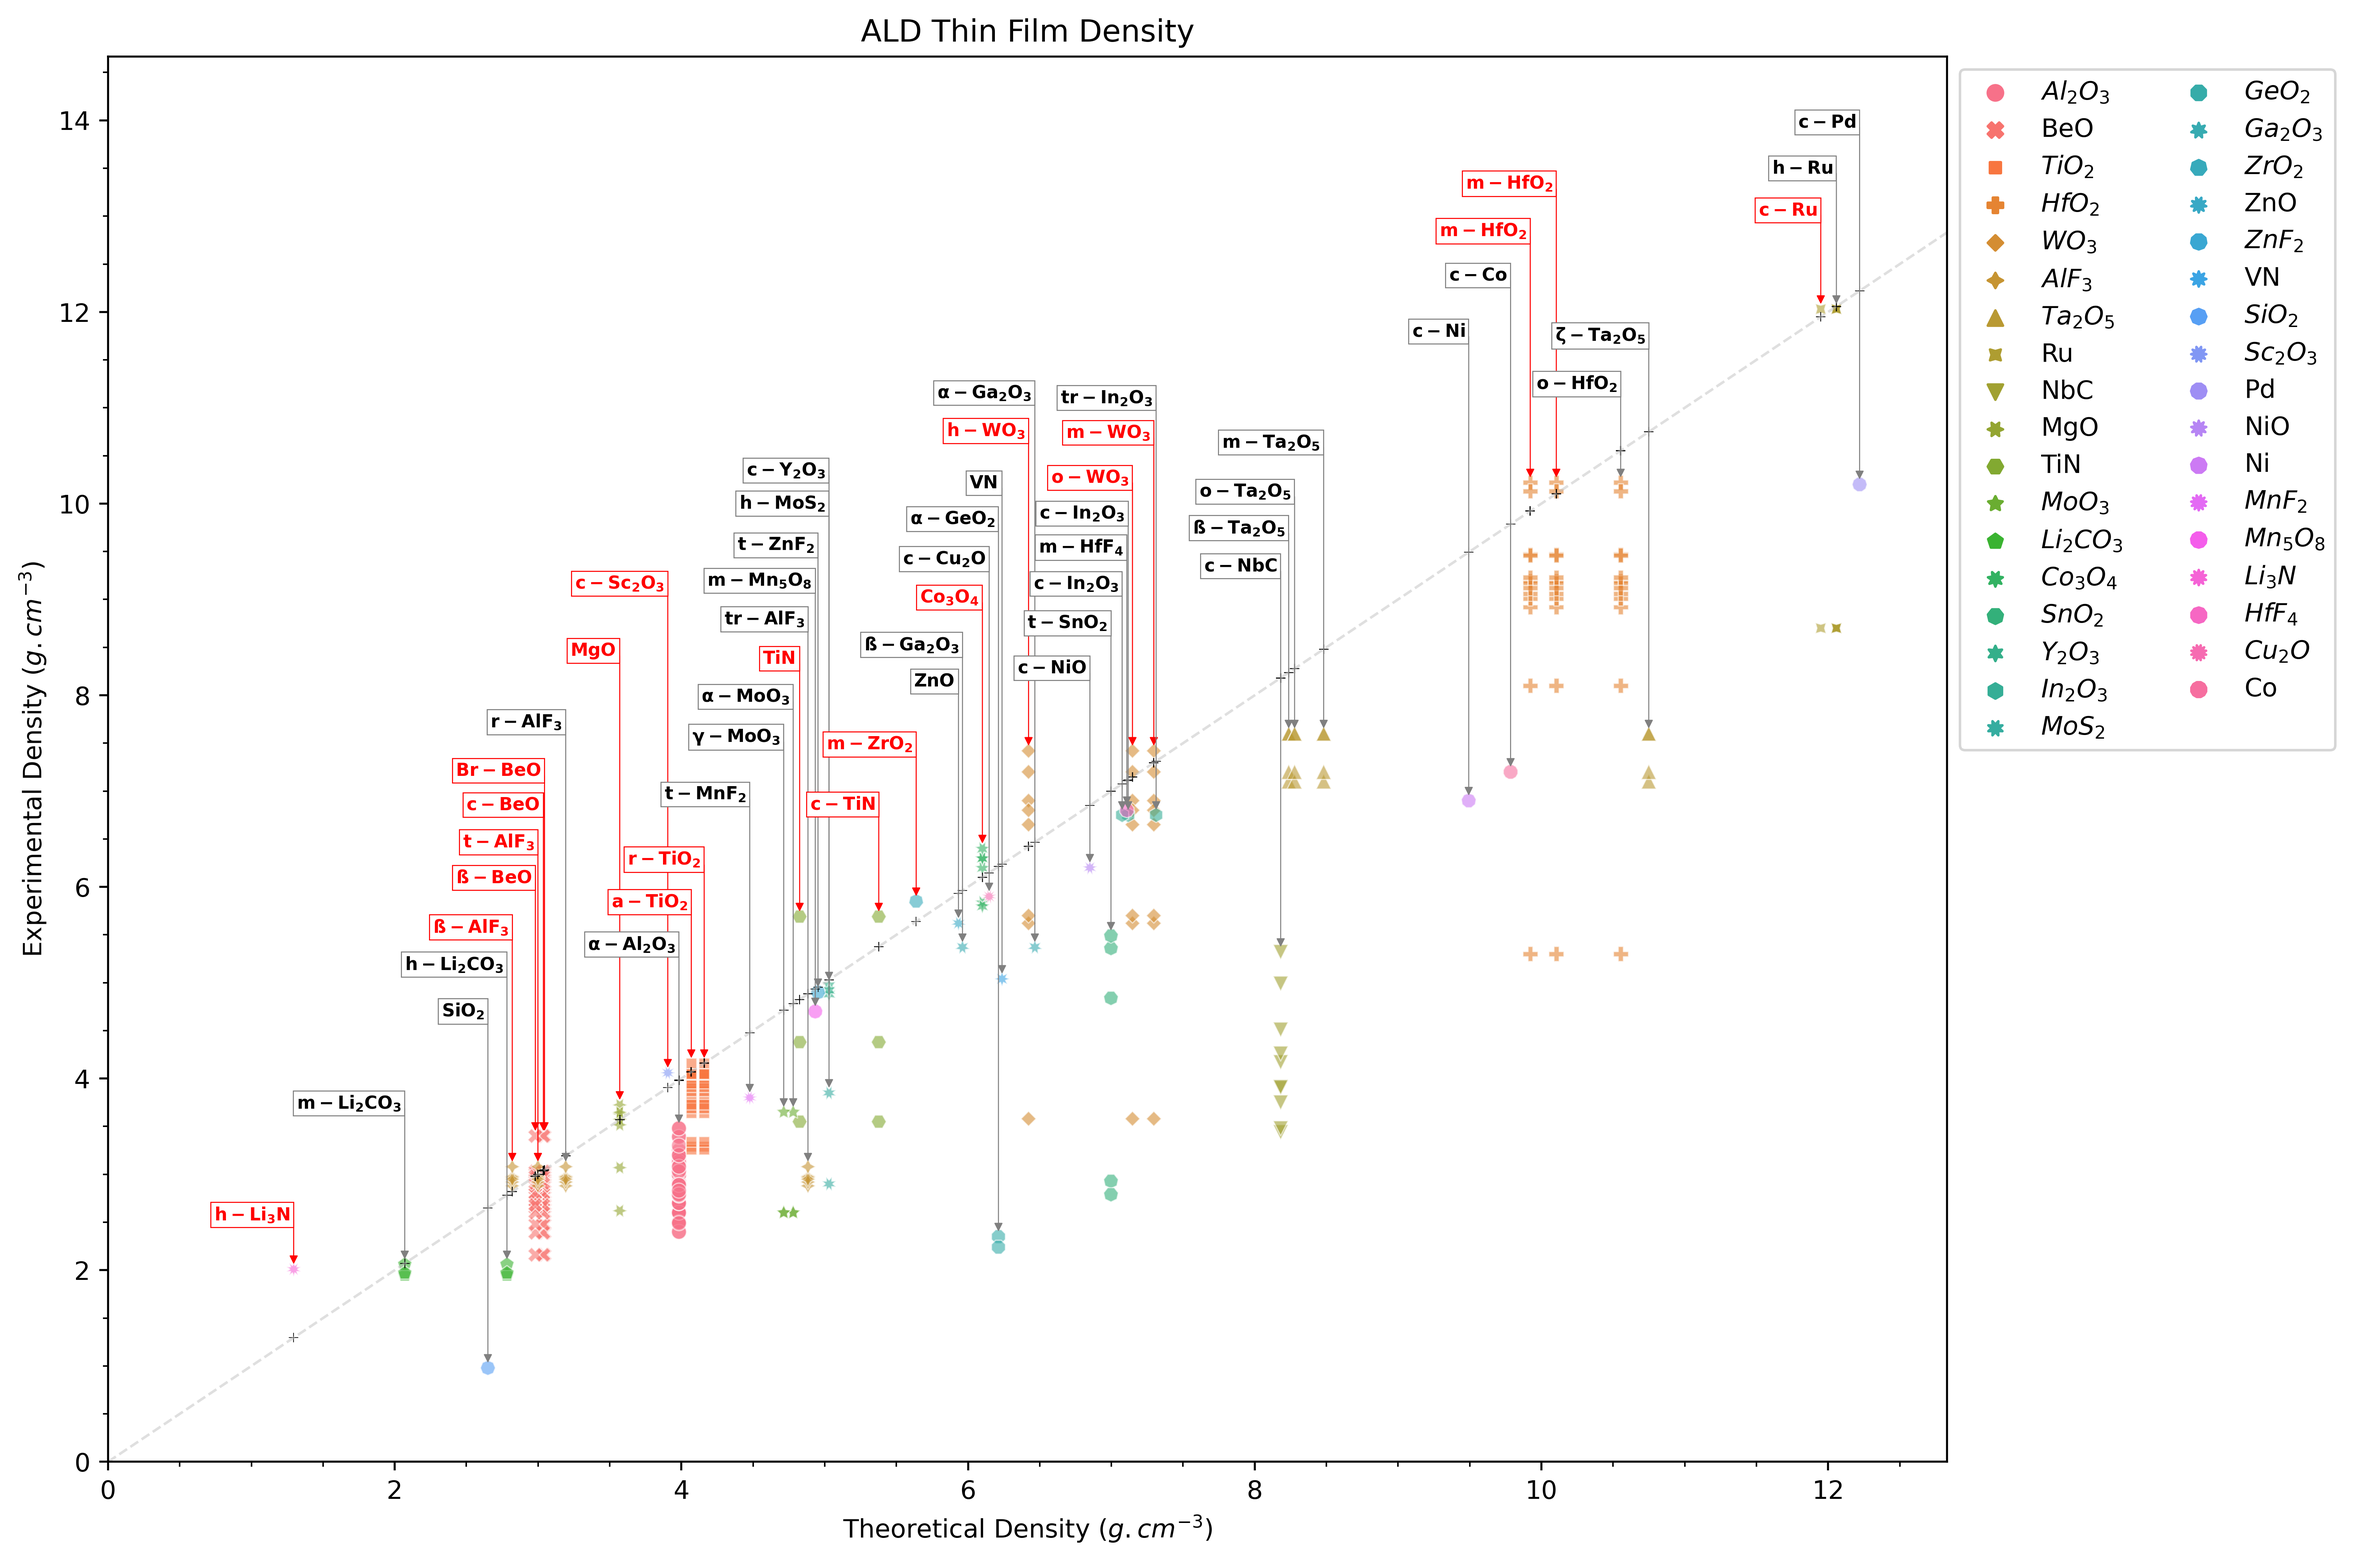
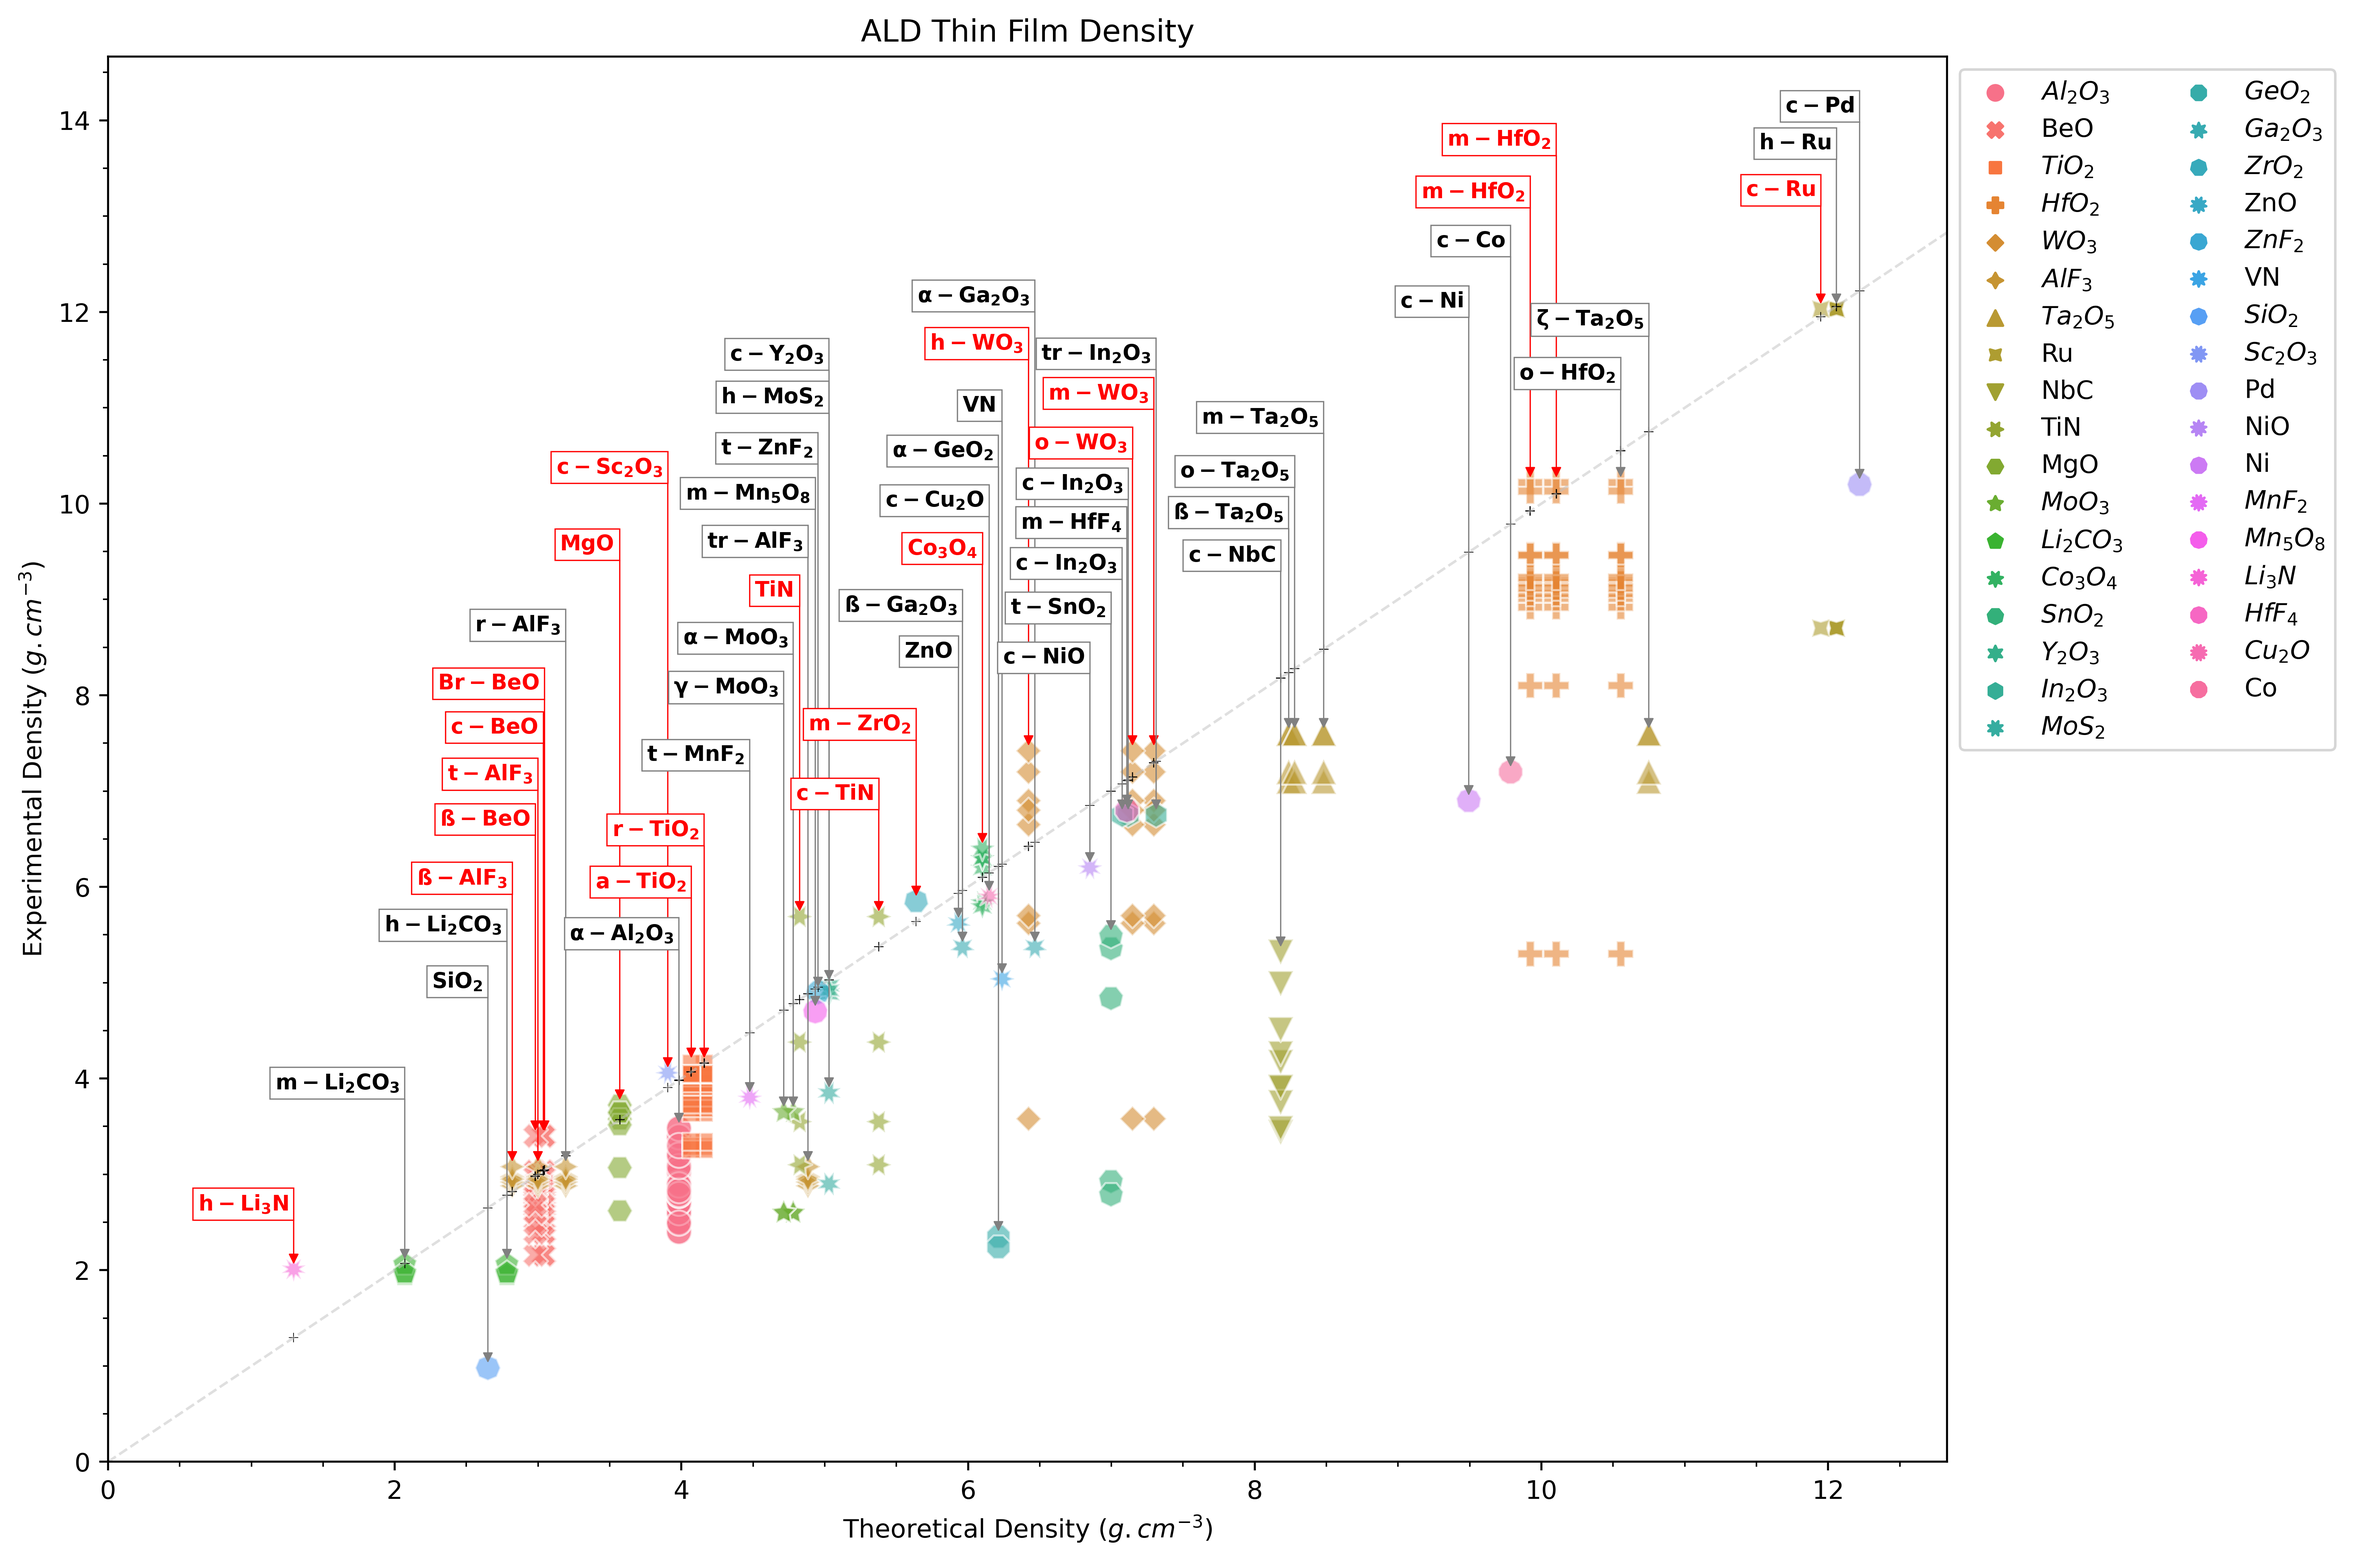
ald ET updated label spacing and point size

diff --git a/scripts/ald-density-ET.py b/scripts/ald-density-ET.py
@@ -335,19 +335,23 @@ def place_labels_all(pnt_lbl, x_thr, y_thr, y_exp, seq_labels_all, flags, visual
 
 
     halign = "right"
-    valign = "baseline"
+    valign = "bottom"
 
     x_txt = x_thr
     # y_txt = f1(x_txt) + y_scatter
+    vertical_spacing_base = 0.40
+    vertical_spacing_r = vertical_spacing_base
+    vertical_spacing_l = vertical_spacing_base + 0.05
 
-    if x_thr > pivot:
+
+    if x_thr > pivot: # right
         scatter_shift=5
-        y_scatter = ((seq_labels_all+scatter_shift)%8*0.35)
+        y_scatter = ((seq_labels_all+scatter_shift)%8 * vertical_spacing_r)
         y_txt = f1(x_txt) + y_scatter
 
-    else:
+    else: # left
         scatter_shift=11
-        y_scatter = ((seq_labels_all+scatter_shift)%12*0.35)
+        y_scatter = ((seq_labels_all+scatter_shift)%12 * (vertical_spacing_l))
         y_txt = f2(x_txt) + y_scatter
 
 
@@ -587,32 +591,31 @@ def keep_labels_inside_margins(label_coords, ax, axis_margins={}):
 
     return [x_txt, y_txt]
 
-def plot_data1(df, x, y, z, point_labels,  **kwargs):
+def plot_data1(df, x, y, z, point_labels,  info={}, info_scatter={}):
     ald_print_info(df, label="DF PLOTTING")
 
     fig, ax = plt.subplots(figsize=(13,10)) # figsize=(6, 7)
 
     order_z = list(df[z].unique())
 
-    # formated_labels = df[z].apply(create_latex_labels)
-    # print(formated_labels)
-    # print(df[z].value_counts())
 
     ax.axline((0,0), slope=1, color='silver', lw=1, ls='--', alpha=0.5, label='_none_')
-    g1 = sns.scatterplot(ax=ax, data=df, x=x, y=y, hue=z, alpha=0.6, s=35, style=z, hue_order=order_z, style_order=order_z)
-    g2 = sns.scatterplot(ax=ax, data=df, x=x, y=x, color="black", alpha=0.9, s=15, marker="+")
+    g1 = sns.scatterplot(ax=ax, data=df, x=x, y=y, hue=z, style=z, hue_order=order_z, style_order=order_z, **info_scatter)
+
+    # reference markers on axline
+    g2 = sns.scatterplot(ax=ax, data=df, x=x, y=x, color="black", alpha=0.9, s=15, marker="+", label="_none_")
+
+
+    # SET TITLE
+    plt.title(info.get("title"))
+
+    # SET AXIS LABELS
+    ax.set_xlabel(" ".join([x, info.get('units')]))
+    ax.set_ylabel(" ".join([y, info.get('units')]))
 
     plt.minorticks_on()
 
-    # SET TITLE
-    plt.title("ALD Thin Film Density")
-
-    # SET AXIS LABELS
-    ax.set_xlabel(" ".join([x, kwargs.get('units')]))
-    ax.set_ylabel(" ".join([y, kwargs.get('units')]))
-
-
-
+    # set axis limits with extra space at the top of the plot
     g1.set(ylim=(0,(df[x].max()*1.20)), xlim=(0,None))
 
     # PLOT LABELS
@@ -623,19 +626,11 @@ def plot_data1(df, x, y, z, point_labels,  **kwargs):
     df_lbls.sort_values(by=[x,y], ascending=[True,True], inplace=True)
     df_lbls.drop_duplicates(subset=[x, z], keep='last', inplace=True)
 
-    # df_lbls["tmp"] =  df_lbls[point_labels[1]].str.contains( df_lbls[point_labels[0]], regex=False )
     df_lbls[point_labels] = df_lbls[point_labels].fillna('')
-    # filt_material_in_phase = df_lbls.apply(lambda r: r[point_labels[0]] in r[point_labels[1]], axis=1)
-
-    # for lbl_col in point_labels:
-        # print(df_lbls[lbl_col].head())
-        # df_lbls[lbl_col] = df_lbls[lbl_col].apply(create_latex_labels)
+ 
     
     df_lbls[point_labels] = df_lbls[point_labels].apply(create_latex_labels, bold=bold_labels)
-    # df_lbls[point_labels[0]] = df_lbls[point_labels[0]].apply(create_latex_labels)
 
-    # df_lbls.loc[filt_material_in_phase, ["label"]] = df_lbls[point_labels[1]] # NOTE: may need to split str if phase has multiple annotations
-    # df_lbls.loc[~filt_material_in_phase, ["label"]] = df_lbls[point_labels[0]]+"\n"+df_lbls[point_labels[1]].str.replace(r'\s', r'\n', n=1, regex=True)
     df_lbls[point_labels] = df_lbls[point_labels].str.replace(r'\s+', r'\n', n=2, regex=True)
     df_lbls[point_labels] = df_lbls[point_labels].str.strip()
     df_lbls["label_lines"] = df_lbls[point_labels].str.count("\n")+1
@@ -650,9 +645,6 @@ def plot_data1(df, x, y, z, point_labels,  **kwargs):
     df_lbls["seq_lbl_lines"] = df_lbls.groupby(["below_line", "label_lines", "len_twolines"]).cumcount()+1
     df_lbls["seq_labels_all"] = df_lbls.groupby(["label_lines", "len_twolines"]).cumcount()+1
 
-    # df_lbls["label"] = df_lbls[point_labels[1]]
-    # else:
-    #     df_lbls["label"] = df_lbls[point_labels[0]]+"\n"+ df_lbls[point_labels[1]].str.replace(r'\s', r'\n', n=1, regex=True)
 
     print(df_lbls.head(20))
     print(df_lbls.shape)
@@ -736,26 +728,31 @@ def plot_data1(df, x, y, z, point_labels,  **kwargs):
 
 
 
+        opacity=1
+        linewidth=0.5
+        fontsize=8.35
+        pad=0.25
+        padding_offset_points = fontsize * pad
+
+
         pnt_coords = (x_thr, y_exp)
-        text_coords = (x_txt-0.026, y_txt)
+        text_coords_offset = (-1.0 * (padding_offset_points+0.05), padding_offset_points)
         text_coords_arrow = (x_txt, y_txt)
 
-        opacity=1
-        lw=0.4
         texts.append(plt.annotate("", 
-                    xy=pnt_coords, xytext=text_coords_arrow, 
+                    xy=pnt_coords, xytext=text_coords_arrow, xycoords='data', textcoords='data',
                     verticalalignment=valign, horizontalalignment=halign, 
-                    size=7, color=text_color, weight=text_weight,
+                    size=fontsize, color=text_color, weight=text_weight,
                     arrowprops=dict(arrowstyle="-|>, widthA=.4, widthB=.4",
                                 connectionstyle=f"arc3,rad={rad}", shrinkA=0,
-                                color=arrow_color, alpha=opacity, lw=lw
+                                color=arrow_color, alpha=opacity, lw=linewidth
                     )))
 
         texts.append(plt.annotate(pnt_lbl, 
-                    xy=pnt_coords, xytext=text_coords, 
+                    xy=text_coords_arrow, xytext=text_coords_offset, xycoords='data', textcoords='offset points',
                     verticalalignment=valign, horizontalalignment=halign, 
-                    size=7, color=text_color, weight=text_weight,
-                    bbox=dict(boxstyle="square,pad=0.2", fc="white", ec=arrow_color, alpha=opacity, lw=lw)
+                    size=fontsize, color=text_color, weight=text_weight,
+                    bbox=dict(boxstyle=f"square,pad={pad}", fc="white", ec=arrow_color, alpha=opacity, lw=linewidth)
                     ))
 
 
@@ -779,8 +776,9 @@ def plot_data1(df, x, y, z, point_labels,  **kwargs):
     return fig
 
 
-
-fig2 = plot_data1(df_merged, x=density_thr, y=density_exp, z=key, point_labels="Label", units=density_units)
+info=dict(units=density_units, title="ALD Thin Film Density")
+info_scatter=dict(alpha=0.6, s=100)
+fig2 = plot_data1(df_merged, x=density_thr, y=density_exp, z=key, point_labels="Label", info=info, info_scatter=info_scatter)
 
 fig2.savefig('plots/plotDensities-5.png', dpi=500, bbox_inches="tight")
 
